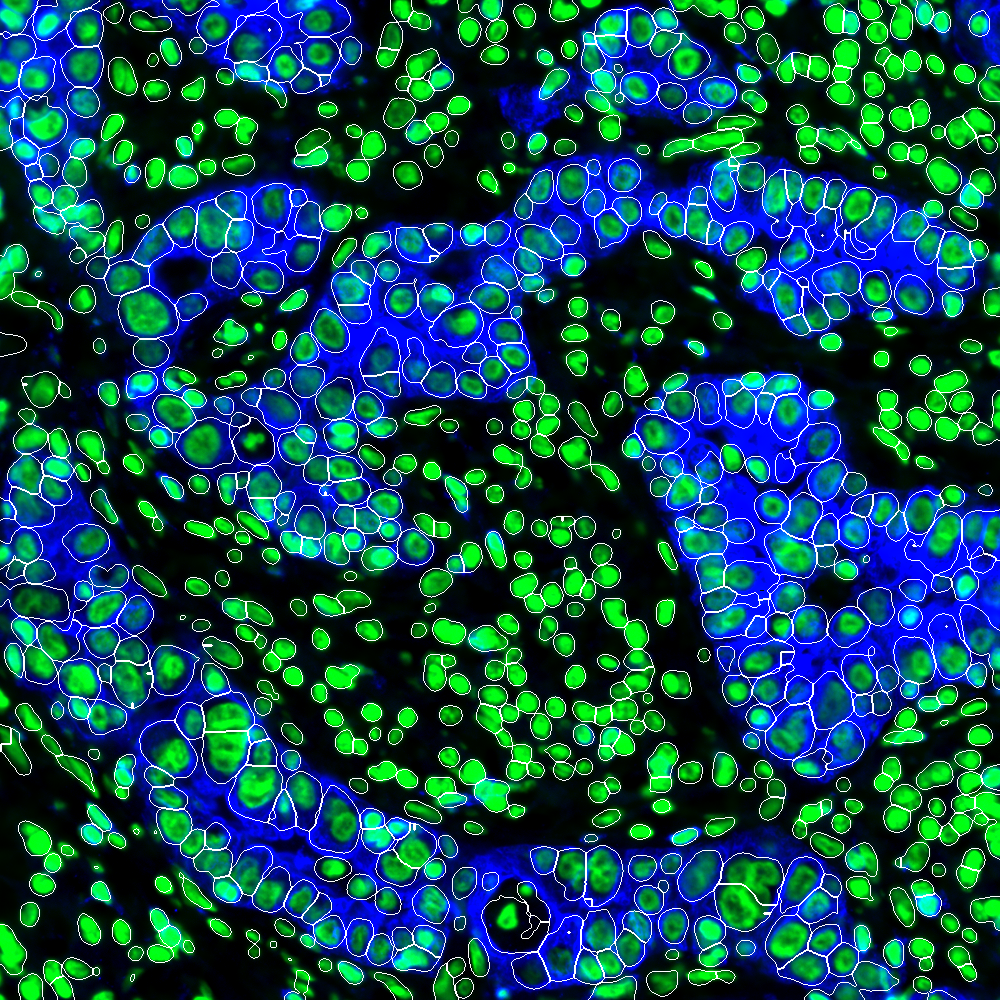
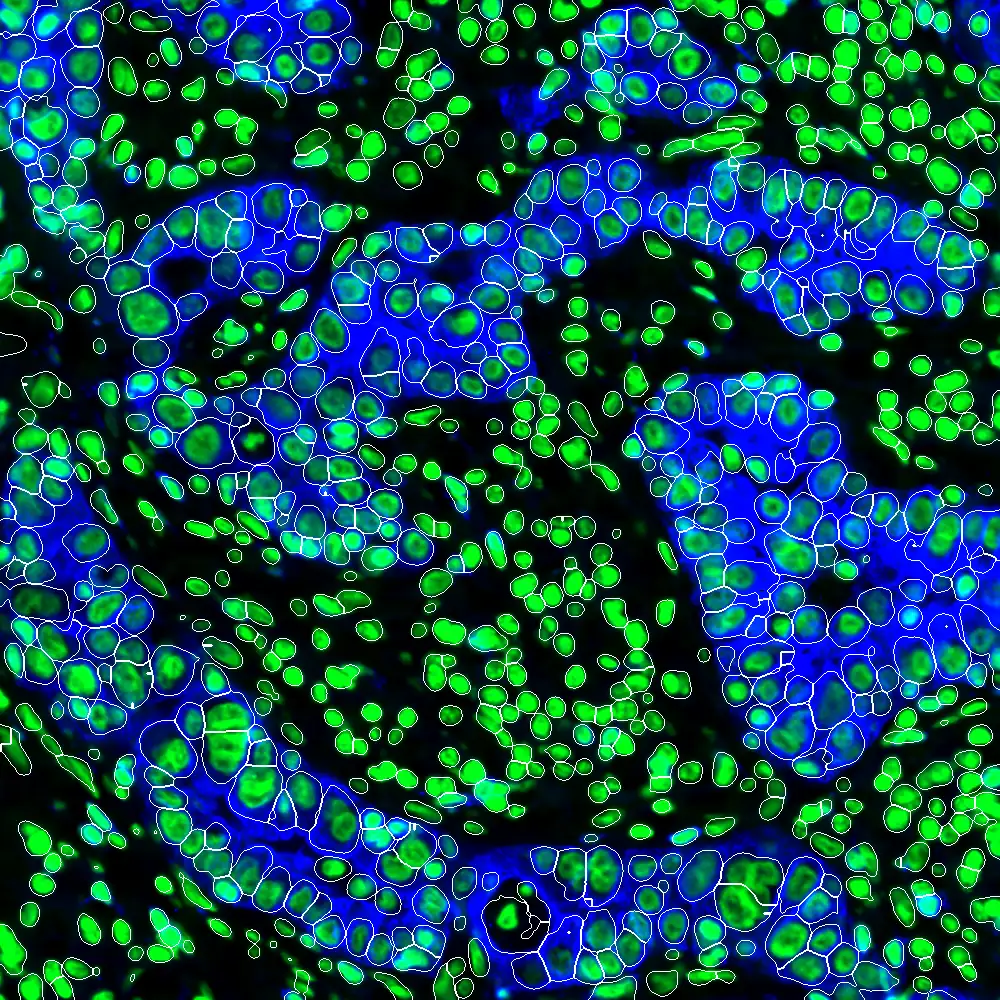
Use optimized WebP image instead of PNG.

diff --git a/frontend/src/Data.tsx b/frontend/src/Data.tsx
@@ -1,7 +1,7 @@
 import { useState } from 'react';
 import { Storage } from '@aws-amplify/storage';
 import { Alert, Button, Card, Col, Container, Row } from 'react-bootstrap';
-import TissueNetThumbnail from './images/multiplex_overlay.png';
+import TissueNetThumbnail from './images/multiplex_overlay.webp';
 
 /**
  * For the POC the "data" will just be hard coded.
